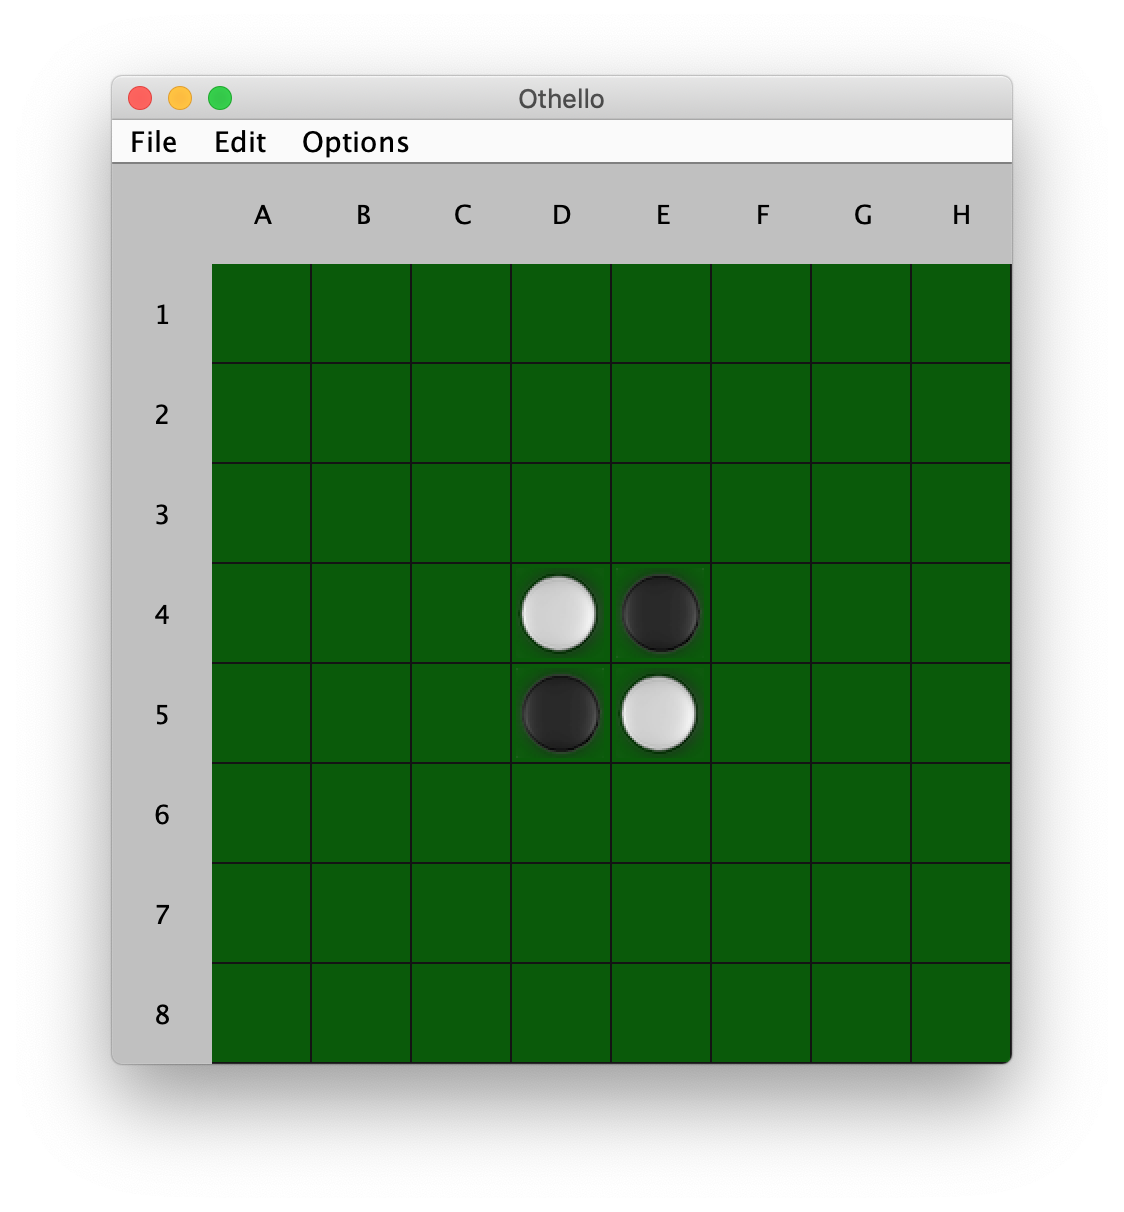
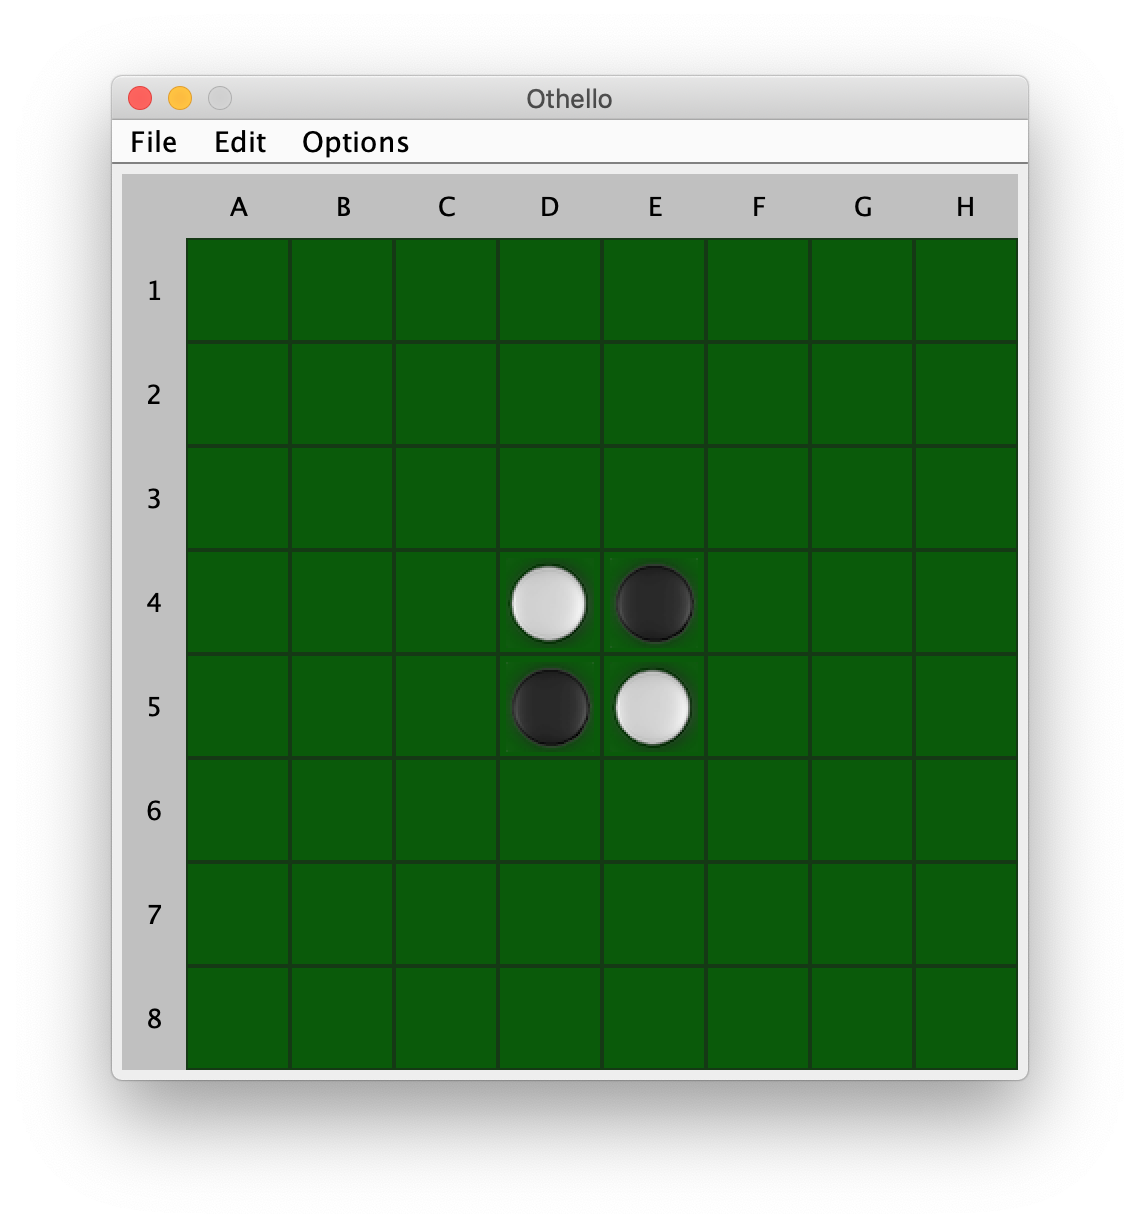
Update screenshot to reflect changes

diff --git a/README.md b/README.md
@@ -8,7 +8,7 @@
 
 
 
-<p align="center"><img src="https://raw.githubusercontent.com/marcothuemmler/de.htwg.se.OthelloInScala/GUI/scala_swing_1/resources/screenshot.png" width="508"/></p>
+<p align="center"><img src="https://raw.githubusercontent.com/marcothuemmler/de.htwg.se.OthelloInScala/dev/resources/screenshot.png" width="570"/></p>
 
 
 ***&nbsp;&nbsp;&nbsp;&nbsp;&nbsp;&nbsp;About Othello***
